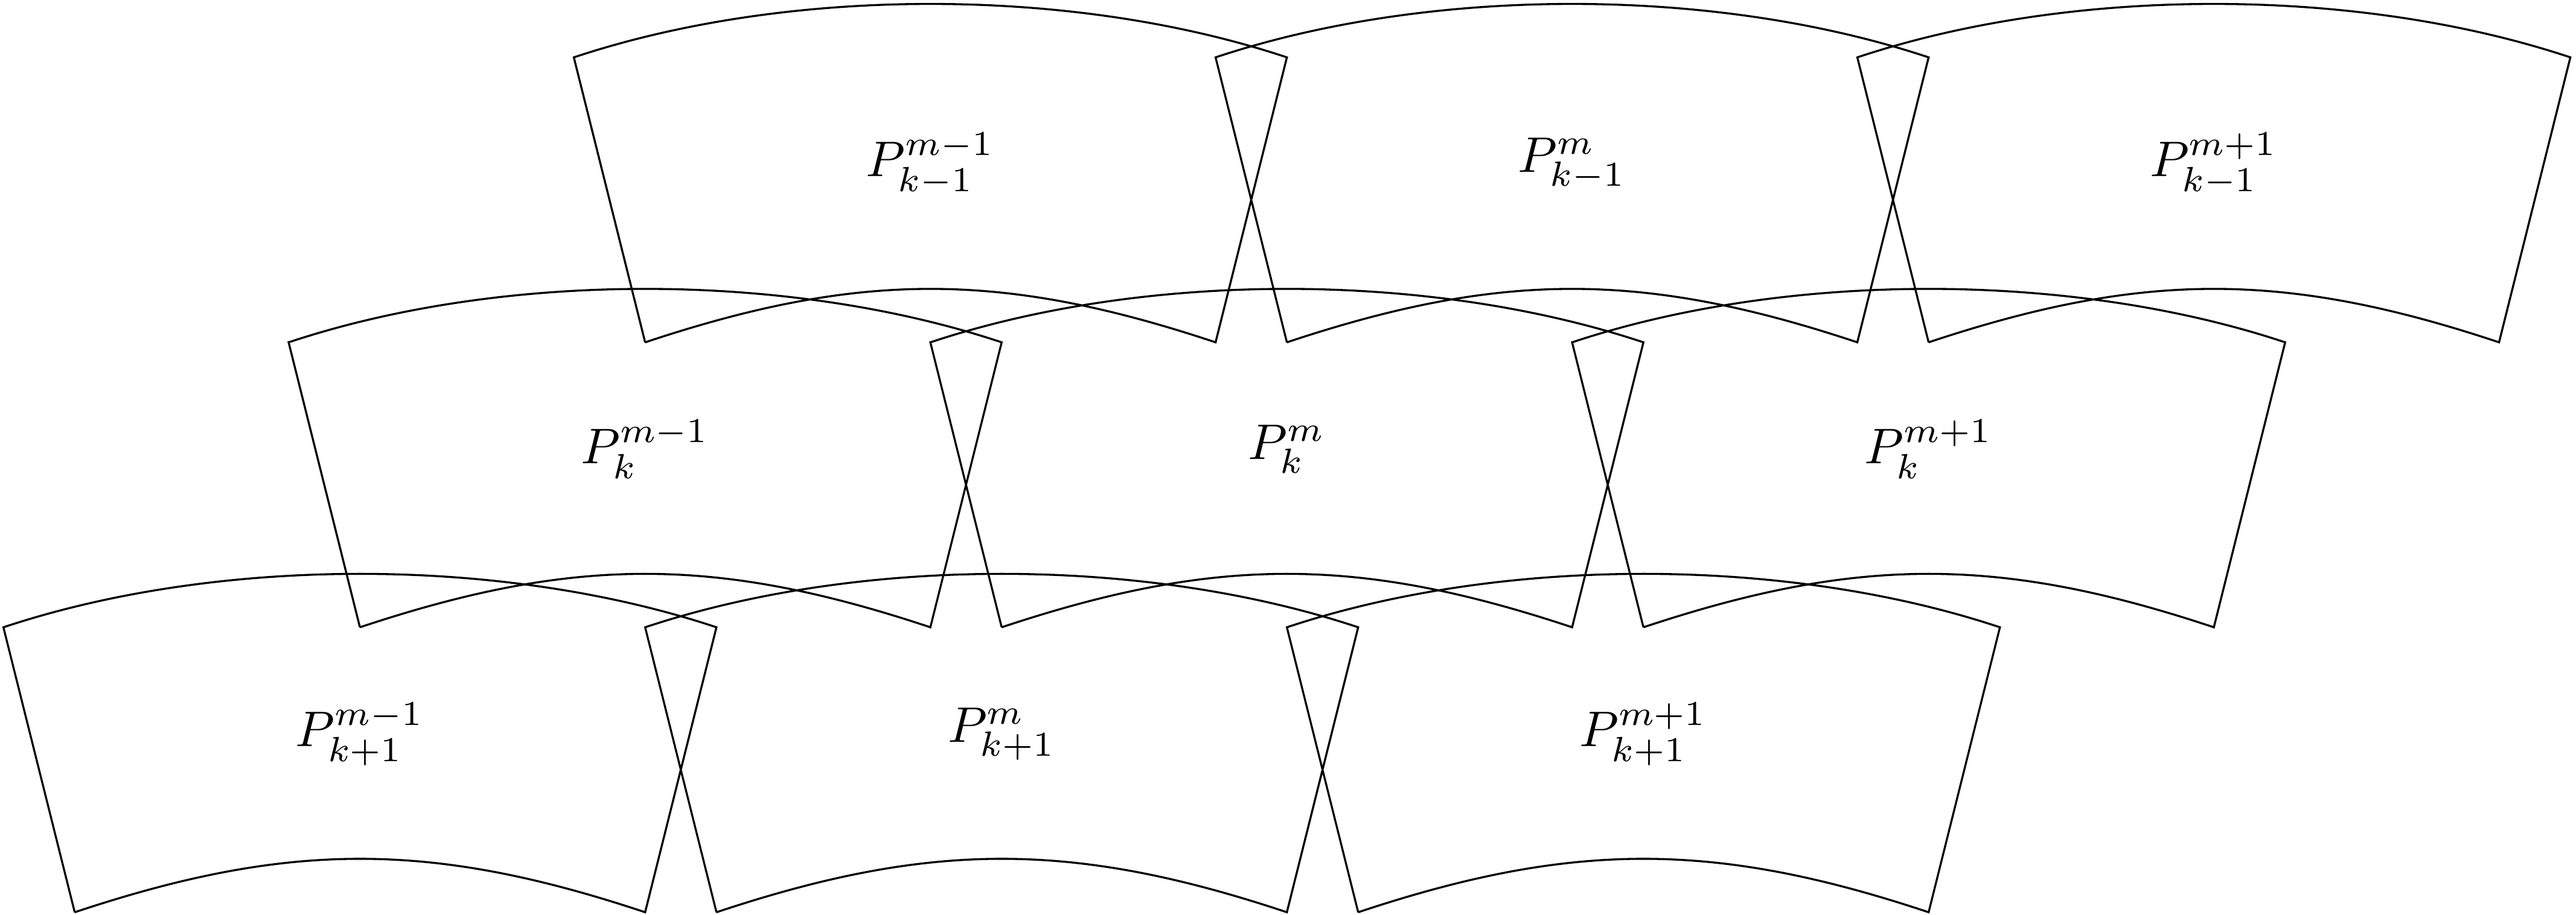
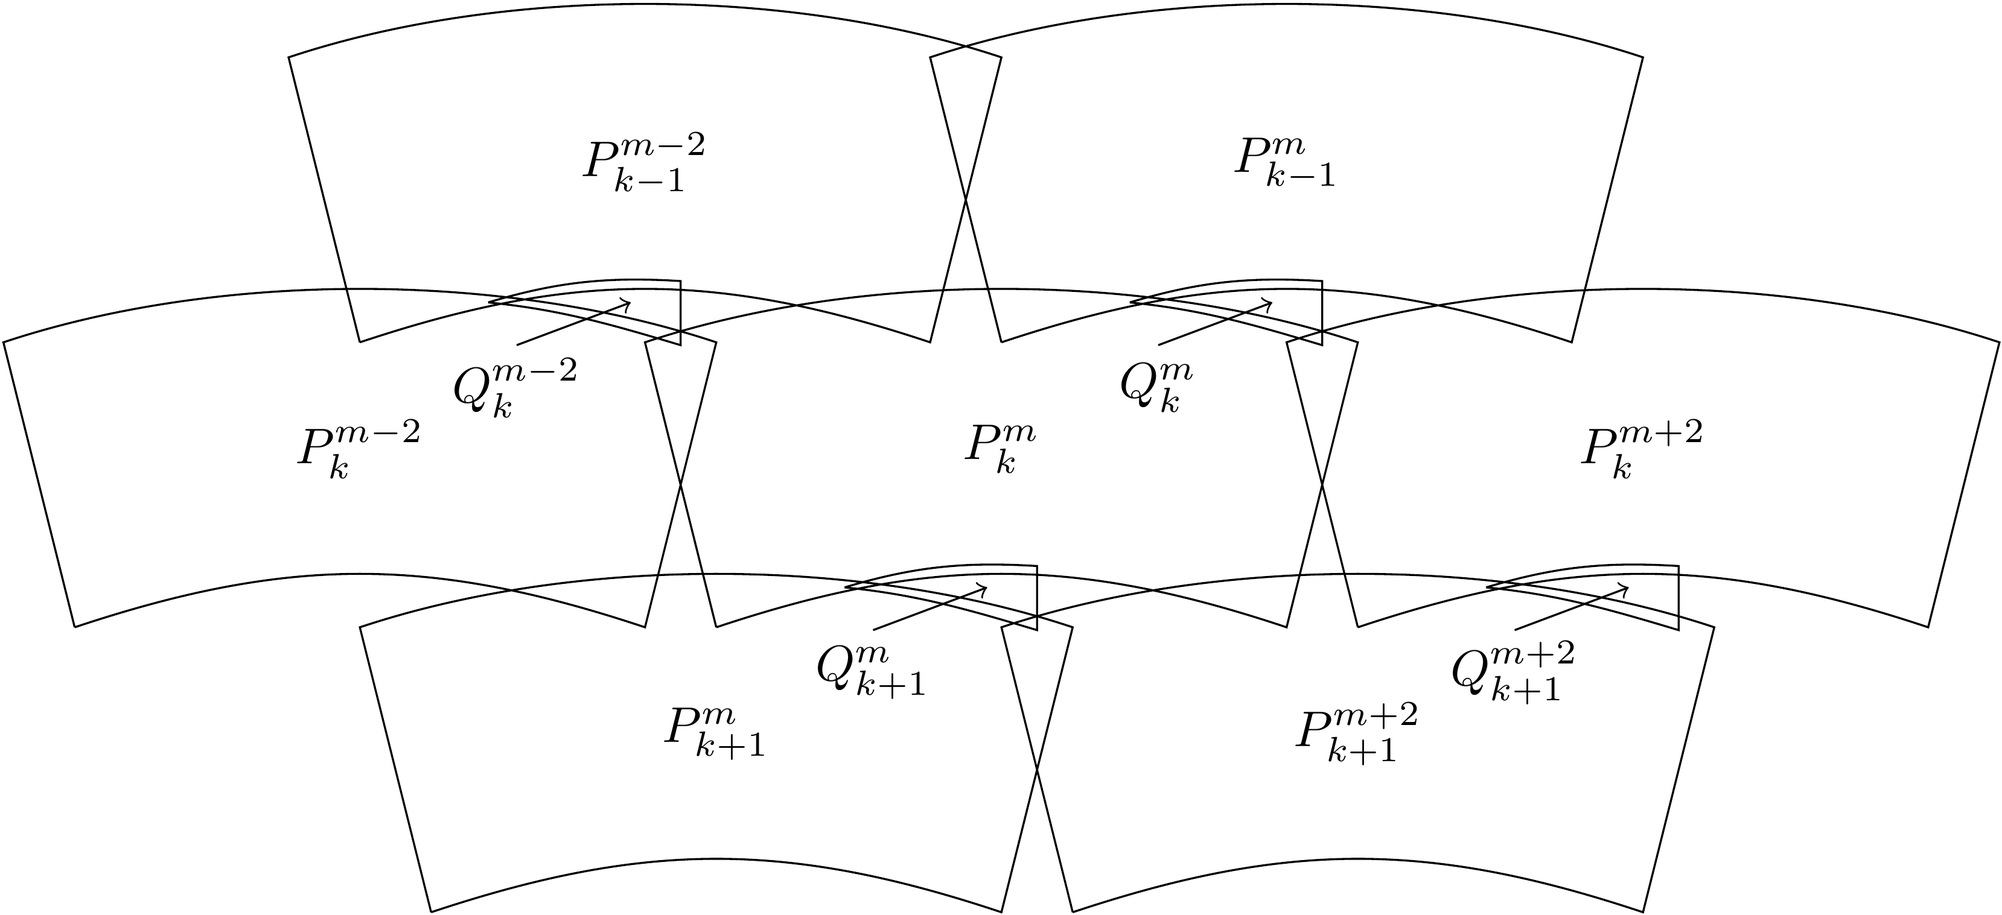
adjust schemas

diff --git a/Report/Figures/Schemas/DuringAdding/schema.tex b/Report/Figures/Schemas/DuringAdding/schema.tex
@@ -11,16 +11,15 @@
 	%\draw[help lines] (-1,-1) grid (12,6);
 	\draw
 	%% P
-	% m-1
-	(-2,-2) .. controls +(1.5,.5) and +(-1.5,.5) .. ++(4,0)
-	-- ++(.5,2) .. controls +(-1.5,.5) and +(1.5,.5) .. ++(-5,0)
-	-- ++(.5,-2,0) +(2,1.25) node{$P_{k+1}^{m-1}$}
+
+	% m-2
 	(0,0) .. controls +(1.5,.5) and +(-1.5,.5) .. ++(4,0)
 	-- ++(.5,2) .. controls +(-1.5,.5) and +(1.5,.5) .. ++(-5,0)
-	-- ++(.5,-2,0) +(2,1.25) node{$P_{k}^{m-1}$}
+	-- ++(.5,-2,0) +(2,1.25) node{$P_{k}^{m-2}$}
 	(2,2) .. controls +(1.5,.5) and +(-1.5,.5) .. ++(4,0)
 	-- ++(.5,2) .. controls +(-1.5,.5) and +(1.5,.5) .. ++(-5,0)
-	-- ++(.5,-2,0) +(2,1.25) node{$P_{k-1}^{m-1}$}
+	-- ++(.5,-2,0) +(2,1.25) node{$P_{k-1}^{m-2}$}
+
 	% m
 	(2.5,-2) .. controls +(1.5,.5) and +(-1.5,.5) .. ++(4,0)
 	-- ++(.5,2) .. controls +(-1.5,.5) and +(1.5,.5) .. ++(-5,0)
@@ -31,22 +30,48 @@
 	(6.5,2) .. controls +(1.5,.5) and +(-1.5,.5) .. ++(4,0)
 	-- ++(.5,2) .. controls +(-1.5,.5) and +(1.5,.5) .. ++(-5,0)
 	-- ++(.5,-2,0) +(2,1.25) node{$P_{k-1}^{m}$}
-	% m+1
+
+	% m+2
 	(7,-2) .. controls +(1.5,.5) and +(-1.5,.5) .. ++(4,0)
 	-- ++(.5,2) .. controls +(-1.5,.5) and +(1.5,.5) .. ++(-5,0)
-	-- ++(.5,-2,0) +(2,1.25) node{$P_{k+1}^{m+1}$}
+	-- ++(.5,-2,0) +(2,1.25) node{$P_{k+1}^{m+2}$}
 	(9,0) .. controls +(1.5,.5) and +(-1.5,.5) .. ++(4,0)
 	-- ++(.5,2) .. controls +(-1.5,.5) and +(1.5,.5) .. ++(-5,0)
-	-- ++(.5,-2,0) +(2,1.25) node{$P_{k}^{m+1}$}
-	(11,2) .. controls +(1.5,.5) and +(-1.5,.5) .. ++(4,0)
-	-- ++(.5,2) .. controls +(-1.5,.5) and +(1.5,.5) .. ++(-5,0)
-	-- ++(.5,-2,0) +(2,1.25) node{$P_{k-1}^{m+1}$}
-	%% Q
-	%(.3,1.8) -- ++(0,1.4) -- ++(3.4,0) -- ++(0,-1.4) -- ++(-3.4,0) +(1.75,0.75) node{$Q_{k}^{m-1}$}
-	%(3.8,0.3) -- ++(0,1.4) -- ++(3.4,0) -- ++(0,-1.4) -- ++(-3.4,0) +(1.75,0.75) node{$Q_{k-1}^{m}$}
-	%(3.8,3.3) -- ++(0,1.4) -- ++(3.4,0) -- ++(0,-1.4) -- ++(-3.4,0) +(1.75,0.75) node{$Q_{k}^{m}$}
-	%(7.3,1.8) -- ++(0,1.4) -- ++(3.4,0) -- ++(0,-1.4) -- ++(-3.4,0) +(1.75,0.75) node{$Q_{k+1}^{m+1}$}
+	-- ++(.5,-2,0) +(2,1.25) node{$P_{k}^{m+2}$}
+
+	%%Q
+
+	% m-2
+	(2.9,2.28) .. controls +(.5,.15) and +(-.5,.03) .. ++(1.35,0.15)
+	-- ++(0,-.45) .. controls +(-.5,.15) and +(.5,-.05) .. ++(-1.35,.3)
+	+(.2,-.6) node{$Q_{k}^{m-2}$}
+
+	% m
+	(7.4,2.28) .. controls +(.5,.15) and +(-.5,.03) .. ++(1.35,0.15)
+	-- ++(0,-.45) .. controls +(-.5,.15) and +(.5,-.05) .. ++(-1.35,.3)
+	+(.2,-.6) node{$Q_{k}^{m}$}
+
+	(5.4,0.28) .. controls +(.5,.15) and +(-.5,.03) .. ++(1.35,0.15)
+	-- ++(0,-.45) .. controls +(-.5,.15) and +(.5,-.05) .. ++(-1.35,.3)
+	+(.2,-.6) node{$Q_{k+1}^{m}$}
+
+	% m+2
+	(9.9,0.28) .. controls +(.5,.15) and +(-.5,.03) .. ++(1.35,0.15)
+	-- ++(0,-.45) .. controls +(-.5,.15) and +(.5,-.05) .. ++(-1.35,.3)
+	+(.2,-.6) node{$Q_{k+1}^{m+2}$}
+
 	;
+
+	% m-2 
+	\draw[->] (2.9,2.28) ++(.2,-.3) -- ++(.8,.3);
+	% m
+	\draw[->] (7.4,2.28) ++(.2,-.3) -- ++(.8,.3);
+	\draw[->] (5.4,0.28) ++(.2,-.3) -- ++(.8,.3);
+	% m+2
+	\draw[->] (9.9,0.28) ++(.2,-.3) -- ++(.8,.3);
+
+	;
+
 \end{tikzpicture}
 
 \end{document}

diff --git a/Report/Figures/Schemas/BeforeAdding/schema.tex b/Report/Figures/Schemas/BeforeAdding/schema.tex
@@ -9,17 +9,29 @@
 
 \begin{tikzpicture}
 	\draw
-	%% P
-	(0,0) -- +(4,0) -- +(4,2) -- +(0,2) -- +(0,0) +(2,1) node{$P_{k}^{m-1}$}
-	(0,3) -- +(4,0) -- +(4,2) -- +(0,2) -- +(0,0) +(2,1) node{$P_{k-1}^{m-1}$}
-	(3.5,1.5) -- +(4,0) -- +(4,2) -- +(0,2) -- +(0,0) +(2,1) node{$P_{k}^{m}$}
-	(7,0) -- +(4,0) -- +(4,2) -- +(0,2) -- +(0,0) +(2,1) node{$P_{k+1}^{m+1}$}
-	(7,3) -- +(4,0) -- +(4,2) -- +(0,2) -- +(0,0) +(2,1) node{$P_{k}^{m+1}$}
-	%% Q
-	(.3,1.8) -- ++(0,1.4) -- ++(3.4,0) -- ++(0,-1.4) -- ++(-3.4,0) +(1.75,0.75) node{$Q_{k}^{m-1}$}
-	(3.8,0.3) -- ++(0,1.4) -- ++(3.4,0) -- ++(0,-1.4) -- ++(-3.4,0) +(1.75,0.75) node{$Q_{k-1}^{m}$}
-	(3.8,3.3) -- ++(0,1.4) -- ++(3.4,0) -- ++(0,-1.4) -- ++(-3.4,0) +(1.75,0.75) node{$Q_{k}^{m}$}
-	(7.3,1.8) -- ++(0,1.4) -- ++(3.4,0) -- ++(0,-1.4) -- ++(-3.4,0) +(1.75,0.75) node{$Q_{k+1}^{m+1}$}
+	%% P column m-2
+	(-1.9,1.9) -- +(4,0) -- +(4,2) -- +(0,2) -- +(0,0) +(2,1) node{$P_{k}^{m-2}$}
+	(0.1,4.9) -- +(4,0) -- +(4,2) -- +(0,2) -- +(0,0) +(2,1) node{$P_{k}^{m-2}$}
+
+	%% P column m
+	(4,6) -- +(4,0) -- +(4,2) -- +(0,2) -- +(0,0) +(2,1) node{$P_{k-1}^{m}$}
+	(2,3) -- +(4,0) -- +(4,2) -- +(0,2) -- +(0,0) +(2,1) node{$P_{k}^{m}$}
+	(0,0) -- +(4,0) -- +(4,2) -- +(0,2) -- +(0,0) +(2,1) node{$P_{k+1}^{m}$}
+
+	%% P column m+2
+	(5.9,4.1) -- +(4,0) -- +(4,2) -- +(0,2) -- +(0,0) +(2,1) node{$P_{k}^{m+2}$}
+	(3.9,1.1) -- +(4,0) -- +(4,2) -- +(0,2) -- +(0,0) +(2,1) node{$P_{k+1}^{m+2}$}
+
+	%% Q column m-2
+	(0,3.7) -- ++(0,1.4) -- ++(2.2,0) -- ++(0,-1.4) -- ++(-2.2,0) +(1.15,0.75) node{$Q_{k}^{m-2}$}
+
+	%% Q column m
+	(3.9,4.8) -- ++(0,1.4) -- ++(2.2,0) -- ++(0,-1.4) -- ++(-2.2,0) +(1.15,0.75) node{$Q_{k}^{m}$}
+	(1.9,1.8) -- ++(0,1.4) -- ++(2.2,0) -- ++(0,-1.4) -- ++(-2.2,0) +(1.15,0.75) node{$Q_{k+1}^{m}$}
+
+	%% Q column m+2
+	(5.8,2.9) -- ++(0,1.4) -- ++(2.2,0) -- ++(0,-1.4) -- ++(-2.2,0) +(1.15,0.75) node{$Q_{k+1}^{m+2}$}
+
 	;
 \end{tikzpicture}
 
